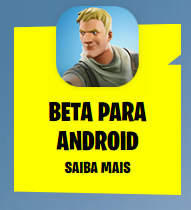
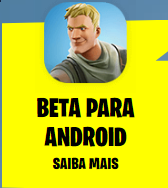
com imagem de fundo

diff --git a/trabalho 4 bimestre/garanta o fortnite.html b/trabalho 4 bimestre/garanta o fortnite.html
@@ -21,6 +21,7 @@
     </button>
 
     <div class="collapse navbar-collapse" id="navbarSupportedContent">
+    <div class="col">
       <ul class="navbar-nav mr-auto">
         <li class="nav-item">
           <a class="nav-link mx" href="#" style="color: grey;">Garanta o Fortnite <span class="sr-only">(current)</span></a>
@@ -38,34 +39,41 @@
          <i class="fas fa-search"></i>
         </li>
       </ul>
+  </div>
+  <div class="col">
       <ul class="navbar-nav mr-auto">
         <div class="row" style="margin-left: 600px;">
-          <div class="col-3">
+          <div class="col-2">
         <li class="nav-item">
-          <a class="nav-link mx" href="#"><img src="img/search.png"></a>
+          <a class="nav-link" href="#"><img src="img/search.png" style="margin-top: 10px;margin-right:300px;"></a>
         </li>
           </div>
-      <div class="col-3">
+      <div class="col-2">
         <li class="nav-item">
-          <a class="nav-link" href="#" ><img src="img/internet.png"></a>
-        </li>
-      </div>
-      <div class="col-3">
-        <li class="nav-item">
-          <a class="nav-link" href="#" ><img src="img/user.png"></a>
+          <a class="nav-link" href="#" ><img src="img/internet.png" style="margin-top: 10px;"></a>
         </li>
       </div>
       <div class="col-2">
         <li class="nav-item">
-          <a class="nav-link" href="#" style="color: grey;" >Iniciar sessão</a>
+          <a class="nav-link" href="#" ><img src="img/user.png" style="margin-top:10px; "></a>
         </li>
       </div>
+      <div class="col-5">
+        <li class="nav-item">
+          <a class="nav-link" href="#" style="color: grey;margin-top: 10px;">Iniciar sessão</a>
+        </li>
+      </div>
+ 
       </div>
       </ul>
+  </div>
      
     </div>
   </nav>
-  <div class="container"><span "><i class="fas fa-search"></i></span> </div>
+  <div class="container-fluid" style="background-image: url(https://cdn2.unrealengine.com/Fortnite%2Fbattle-royale%2FBR06_GetFortnite-1924x999-334bee76e122ee6e81728a7e1c04c023f9c85537.jpg); height: 800px;">
+  	<a href="#" class="botaoandroid mt-5 ml-3" ><img src="img/botão de android.png" class="mt-5"></a>
+  	<button class="buttonjoguegratis"><a href="#"><img src="https://fontmeme.com/permalink/181109/099e49f445f71c222eb98bb5ea227264.png" alt="fortnite-video-game-font" border="0"></a></button>
+  </div>
 
   <!-- Optional JavaScript -->
   <!-- jQuery first, then Popper.js, then Bootstrap JS -->

diff --git a/trabalho 4 bimestre/garanta o fortinite.css b/trabalho 4 bimestre/garanta o fortinite.css
@@ -1,3 +1,14 @@
 li.nav-item:hover{border-bottom: solid 3px yellow;}
 a.nav-link{font-size: 14px;}
 i.fa-search{color: grey;}
+
+
+.buttonjoguegratis{background-color:yellow;
+	width: 500px;
+	margin-top: 650px;
+	margin-left: 700px;
+	border: none;
+	height:90px; }
+
+.botaoandroid{position: absolute;
+  }
